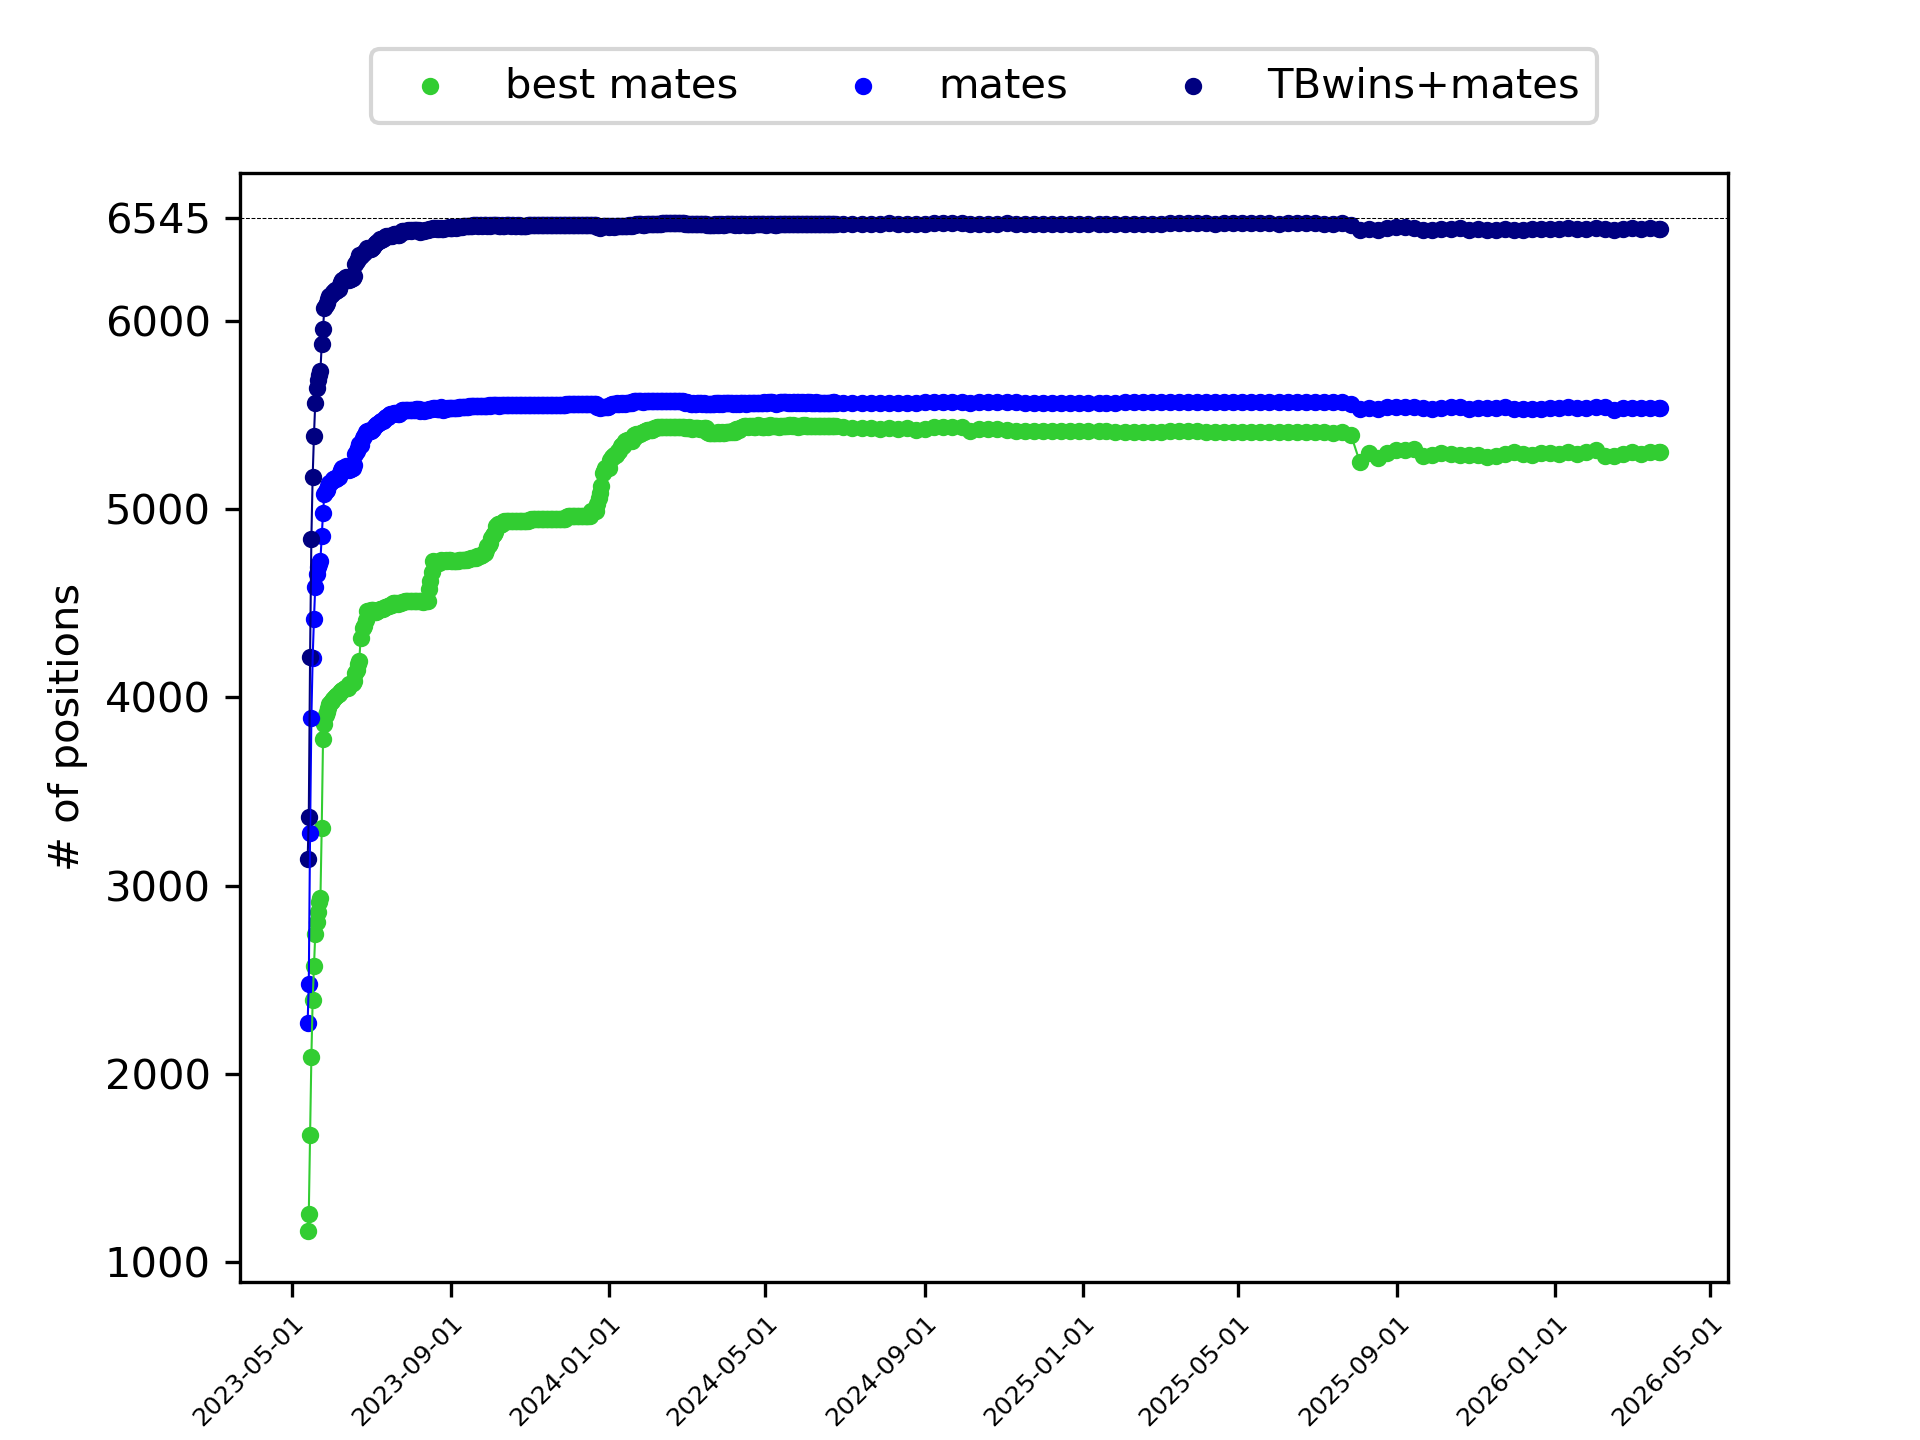
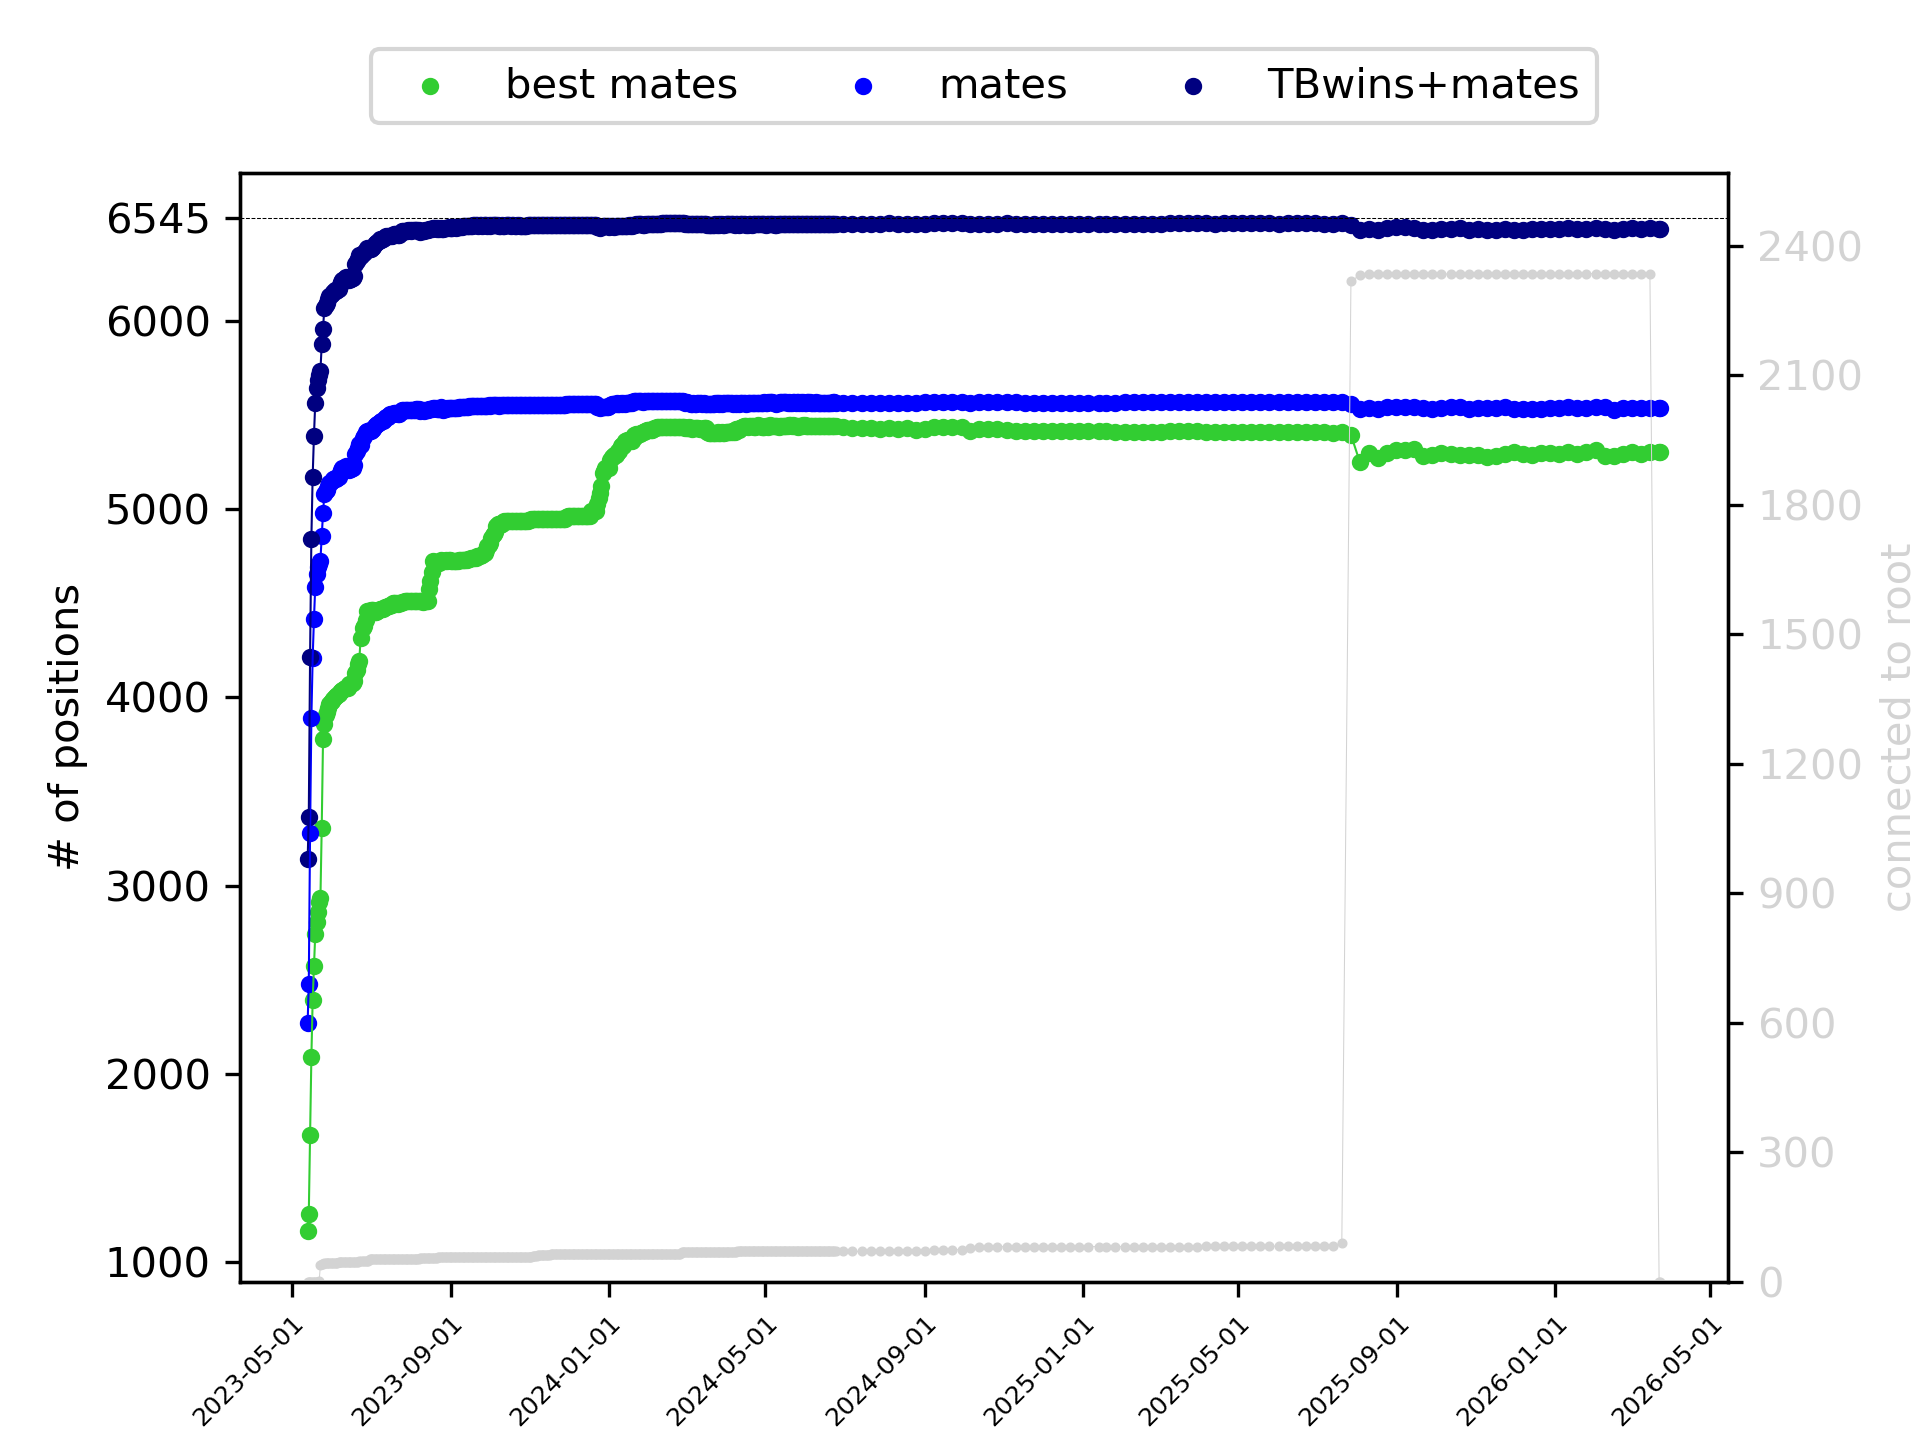
fix connected to root plot

diff --git a/plotdata.py b/plotdata.py
@@ -80,7 +80,7 @@ class matedata:
             rotation_mode="anchor",
             fontsize=6,
         )
-        if plotAll and self.connected[-1]:
+        if plotAll and max(self.connected):
             ax2 = ax1.twinx()
             ax2.set_ylabel("connected to root", color=connectedColor)
             ax2.scatter(self.date, self.connected, color=connectedColor, s=smallDotSize)
